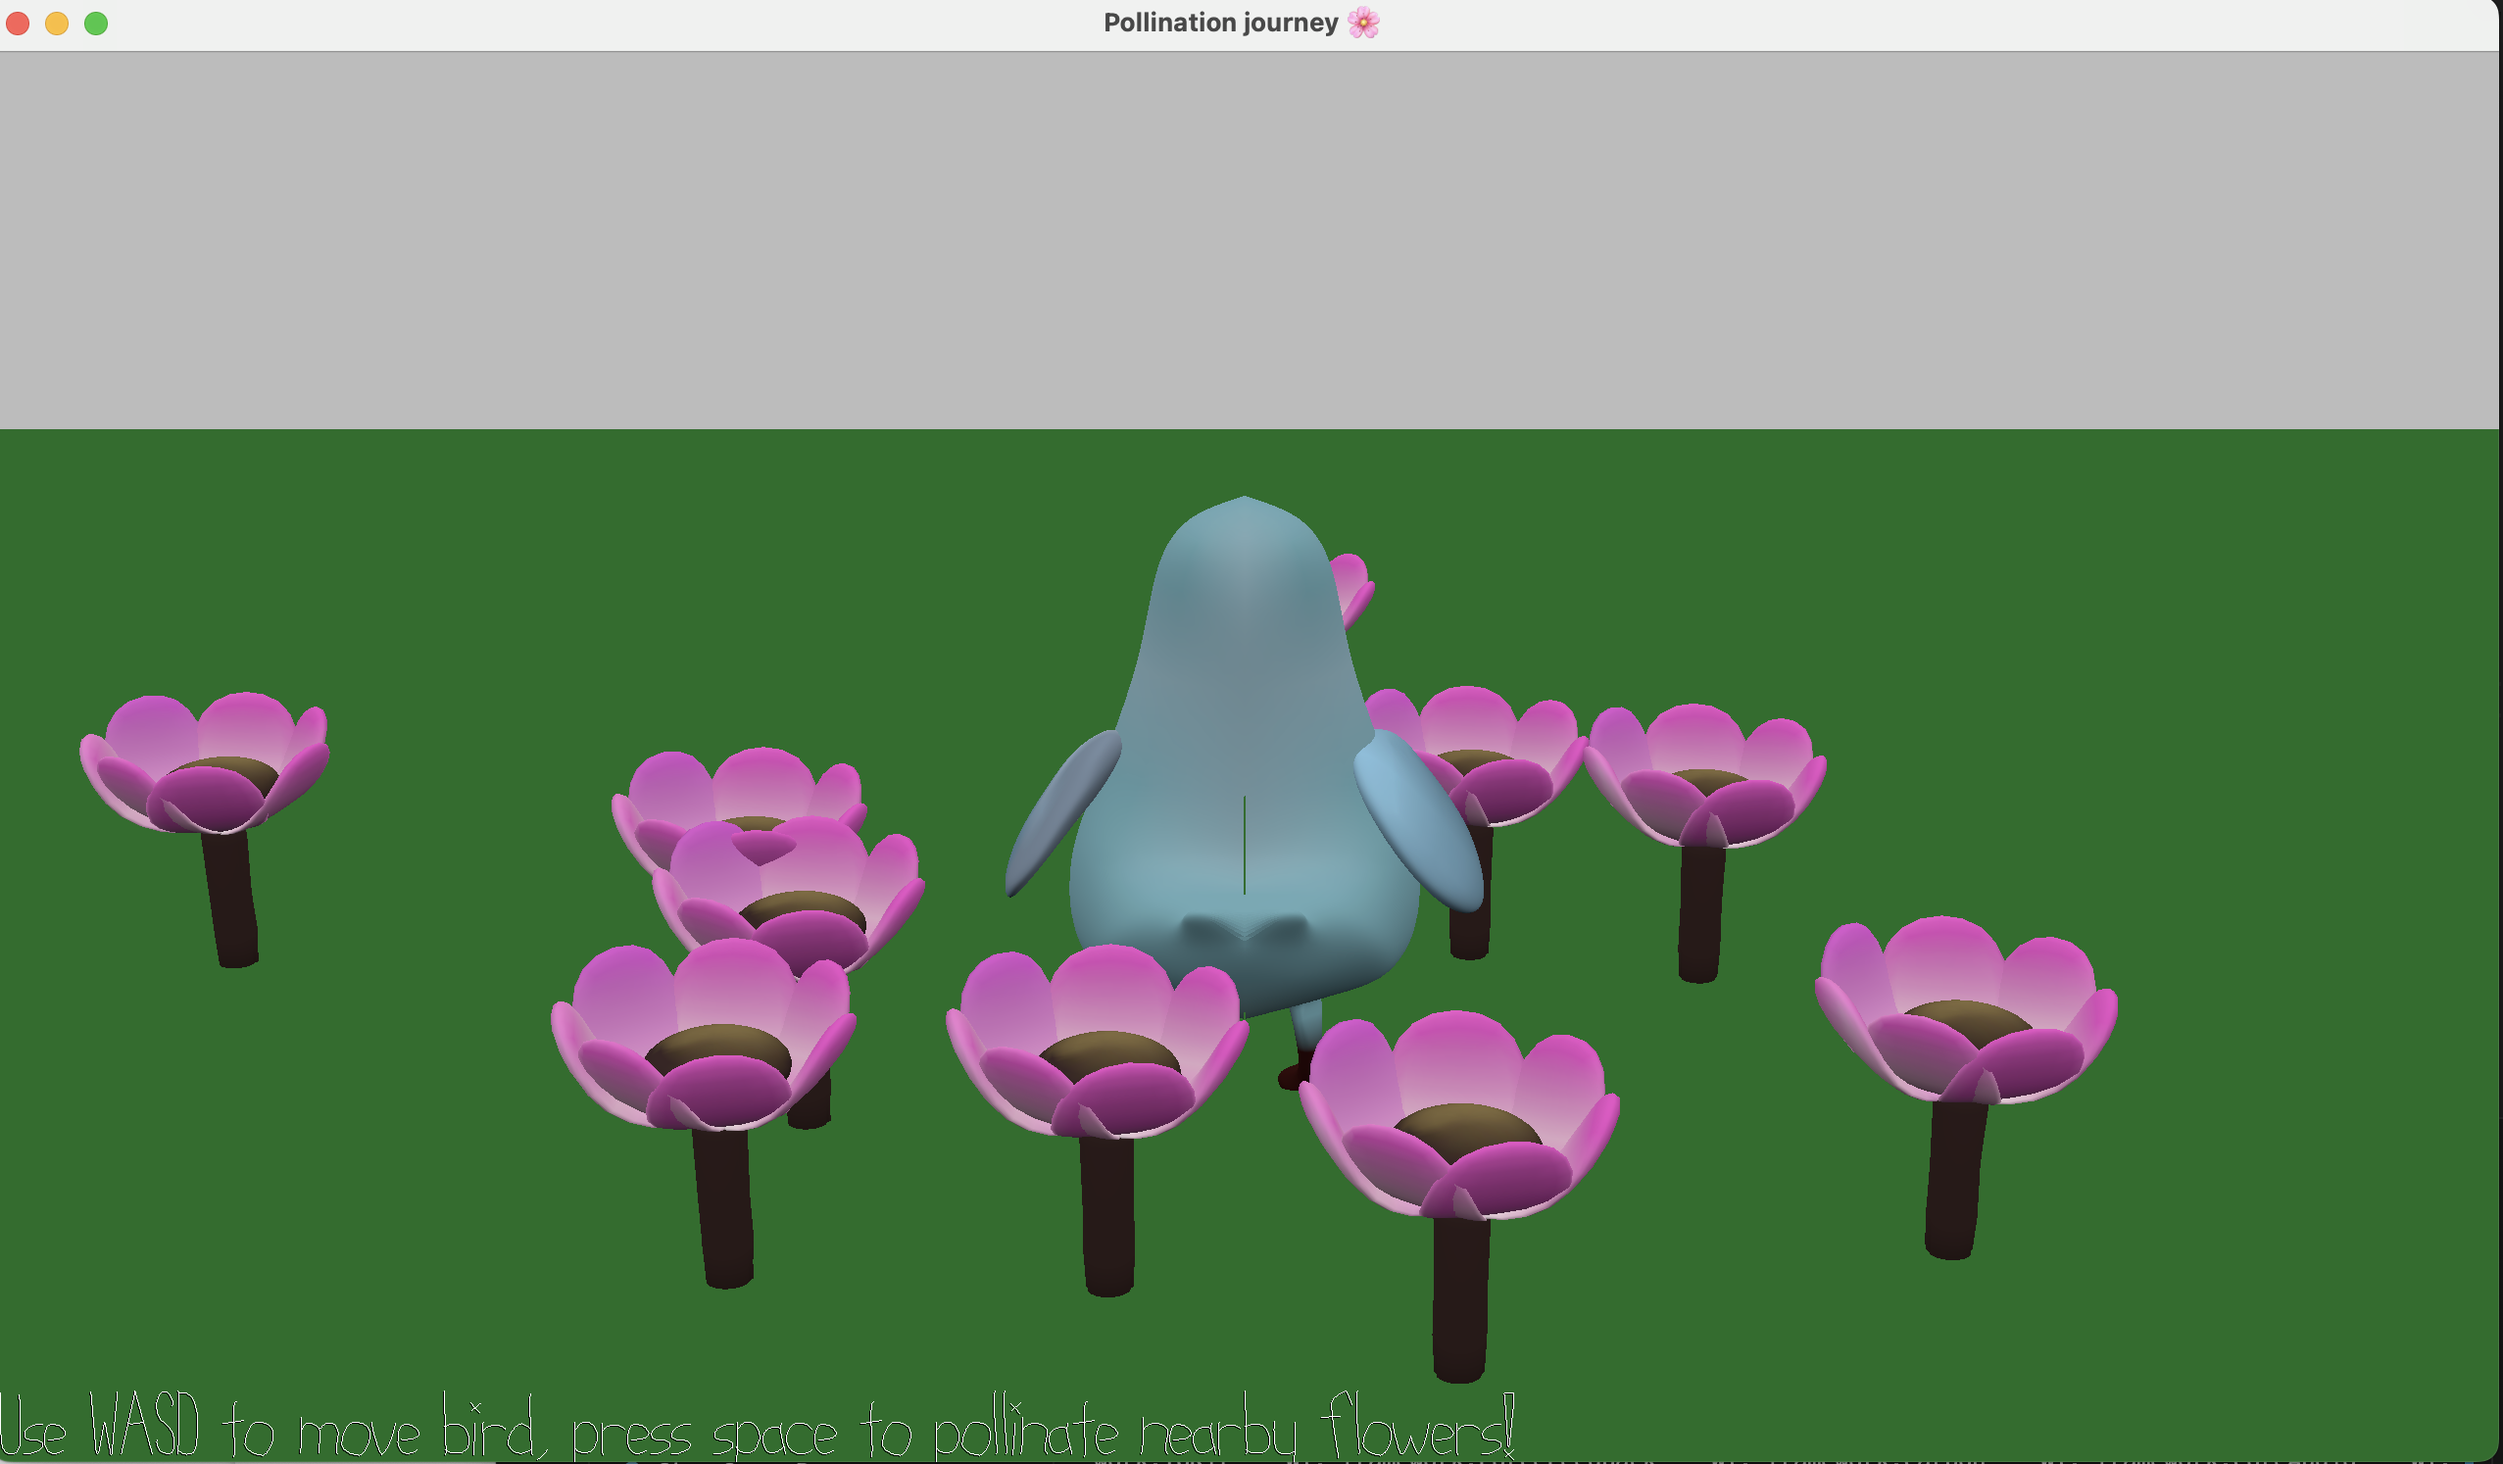
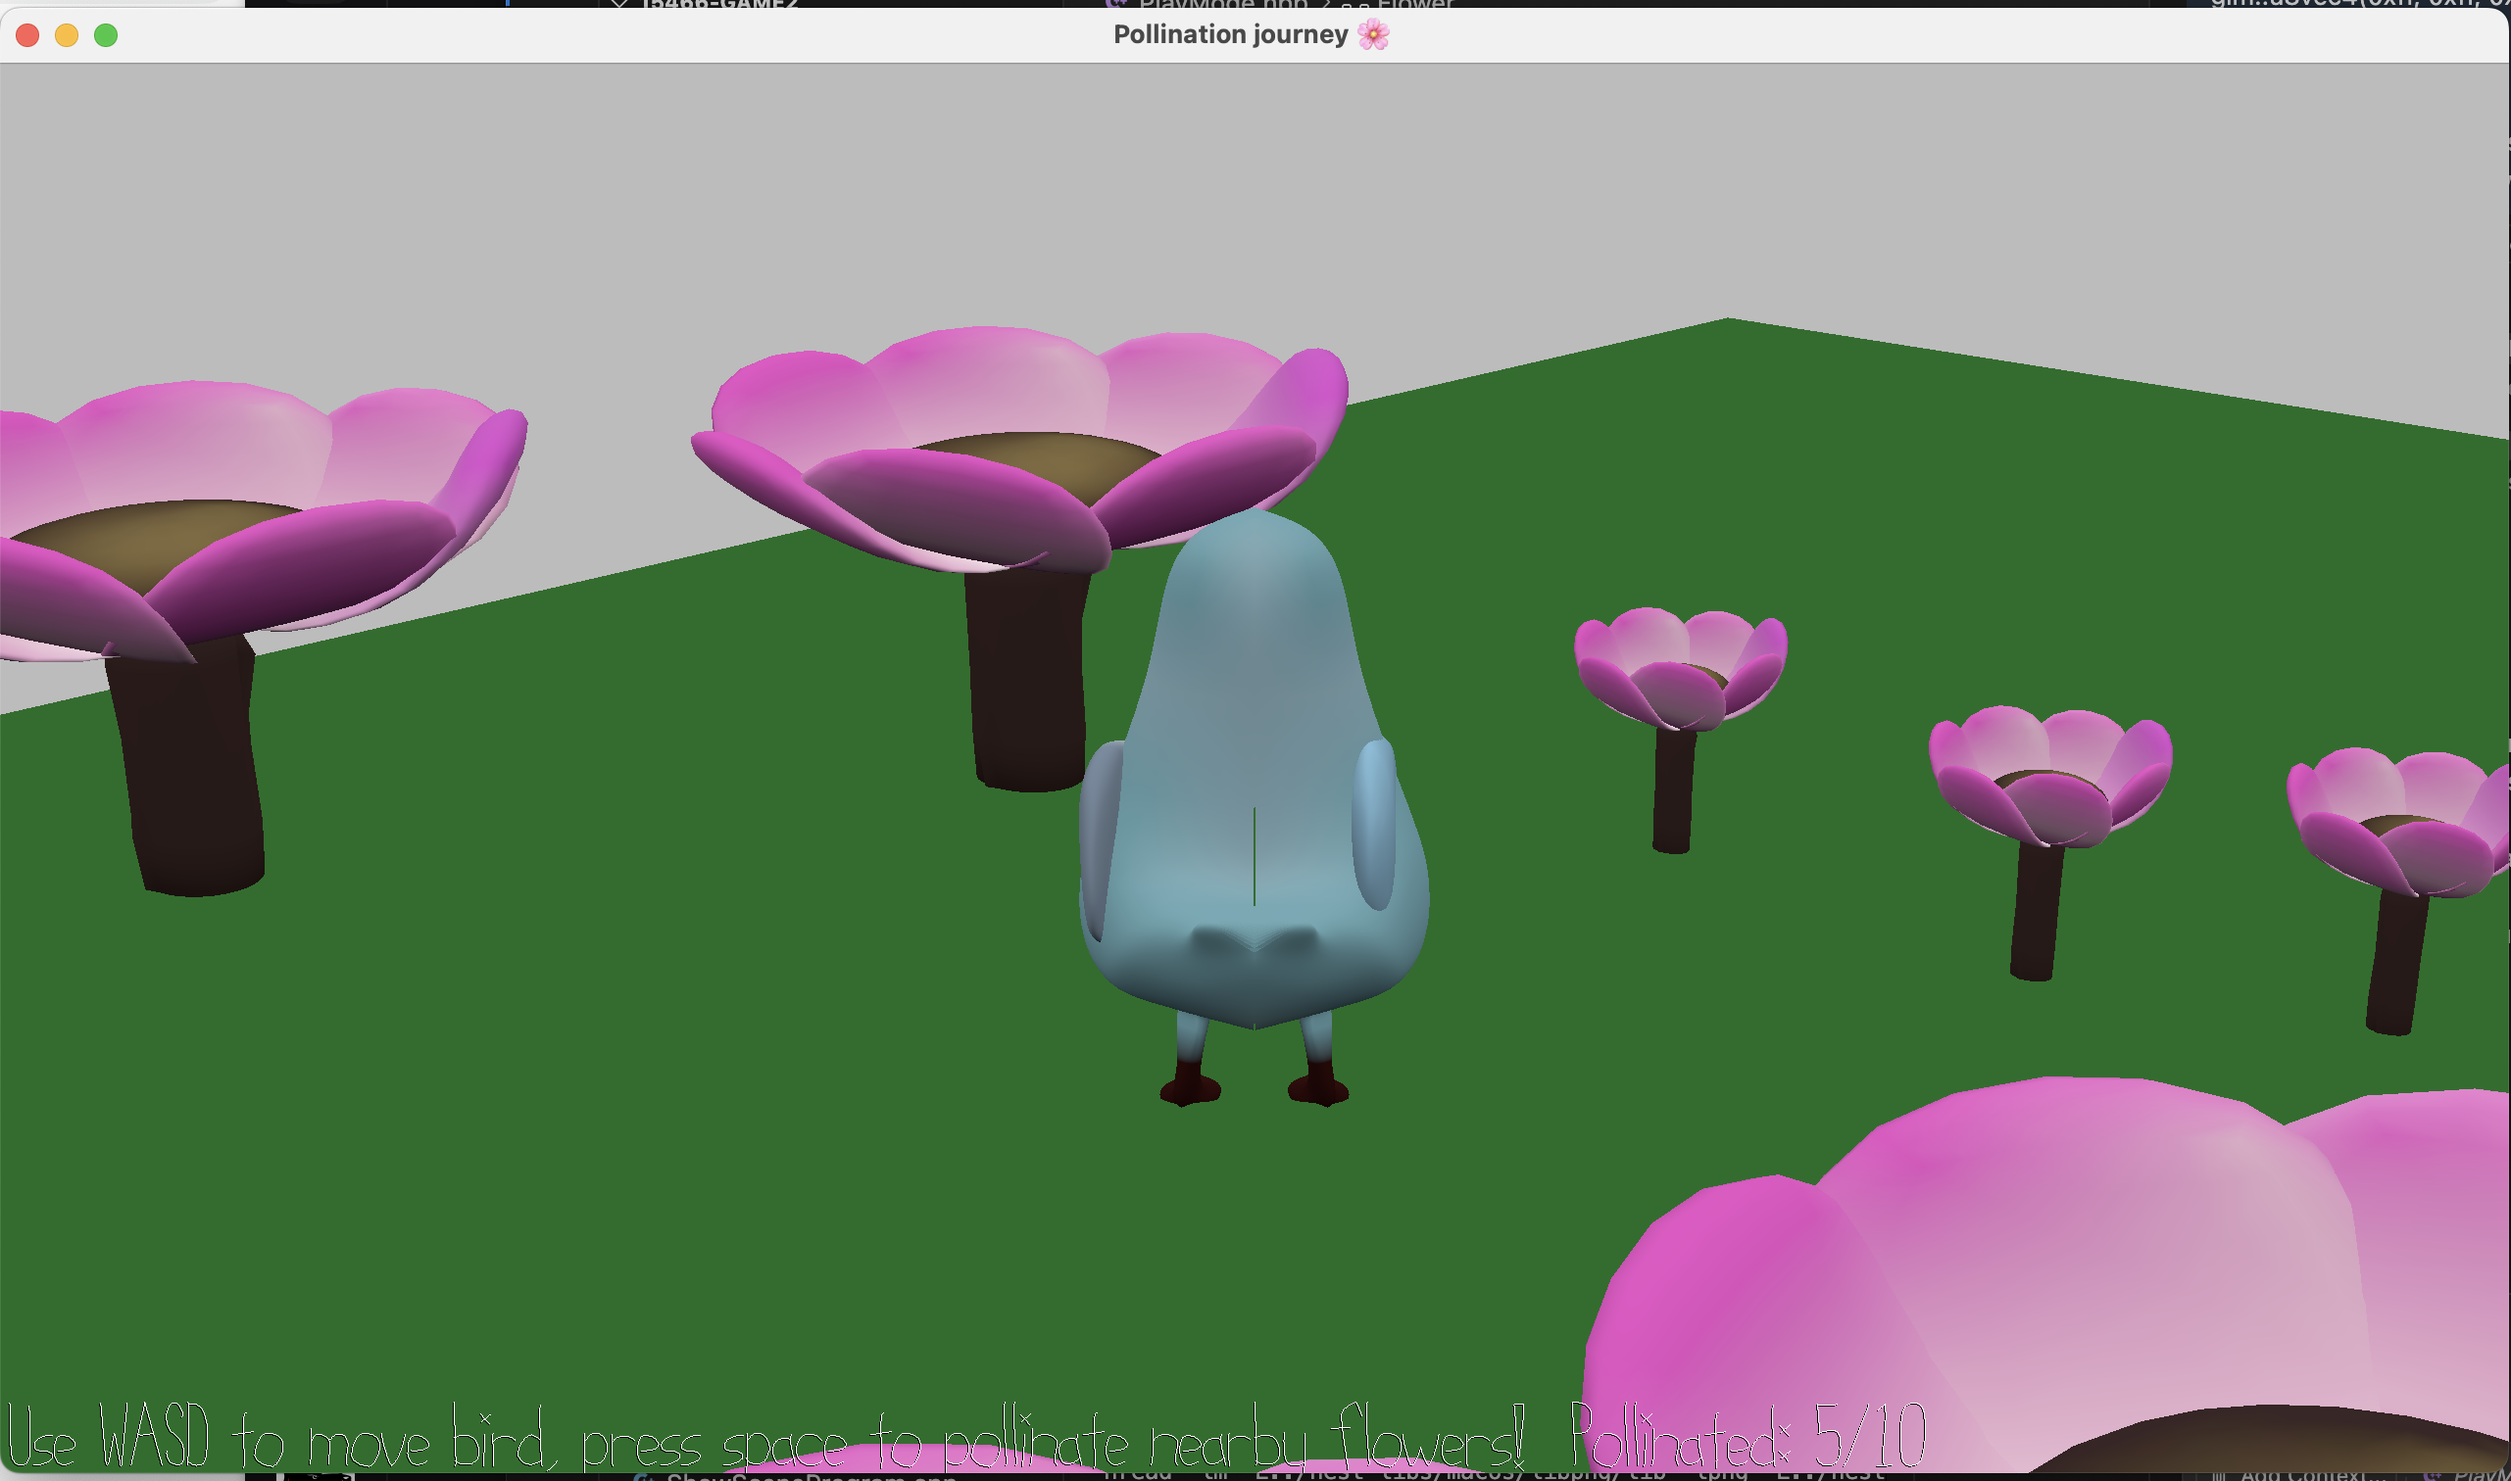
scoreboard

diff --git a/PlayMode.cpp b/PlayMode.cpp
@@ -115,6 +115,12 @@ PlayMode::PlayMode() : scene(*garden_scene)
 			wing_right = &transform;
 		else if (transform.name == "bird_root")
 			bird_root = &transform;
+		else if (transform.name.find("flower") != std::string::npos) {
+			Flower f;
+			f.root = &transform;
+			f.pollinated = false;
+			flowers.push_back(f);
+		}
 	}
 
 	if (wing_left == nullptr)
@@ -212,15 +218,13 @@ void PlayMode::update(float elapsed)
 {
 	if (space.pressed)
 	{
-		float grow_distance = 4.0f;
-		for (auto &transform : scene.transforms)
-		{
-			if (transform.name.find("flower") != std::string::npos)
-			{
-				float dist = glm::distance(transform.position, bird_root->position);
-				if (dist < grow_distance)
-				{
-					transform.scale = glm::vec3(2.f, 2.f, 1.2f); // grow flower
+		float grow_distance = 5.0f;
+		for (auto &flower : flowers) {
+			if (!flower.pollinated) {
+				float dist = glm::distance(flower.root->position, bird_root->position);
+				if (dist < grow_distance) {
+					flower.root->scale = glm::vec3(2.f, 2.f, 1.2f); // grow flower
+					flower.pollinated = true;
 				}
 			}
 		}
@@ -293,12 +297,20 @@ void PlayMode::draw(glm::uvec2 const &drawable_size)
 			0.0f, 0.0f, 0.0f, 1.0f));
 
 		constexpr float H = 0.09f;
-		lines.draw_text("Use WASD to move bird, press space to pollinate nearby flowers!",
+		int num_pollinated = 0;
+		for (const auto& flower : flowers) {
+			if (flower.pollinated) num_pollinated++;
+		}
+		std::string text = "Use WASD to move Fauna, press space to pollinate nearby flowers! Pollinated: " + std::to_string(num_pollinated) + "/ 10";
+		if (num_pollinated == 10) {
+			text = "Yay Fauna! You pollinated all the flowers :D";
+		}
+		lines.draw_text(text,
 						glm::vec3(-aspect + 0.1f * H, -1.0 + 0.1f * H, 0.0),
 						glm::vec3(H, 0.0f, 0.0f), glm::vec3(0.0f, H, 0.0f),
 						glm::u8vec4(0x00, 0x00, 0x00, 0x00));
 		float ofs = 2.0f / drawable_size.y;
-		lines.draw_text("Use WASD to move bird, press space to pollinate nearby flowers!",
+		lines.draw_text(text,
 						glm::vec3(-aspect + 0.1f * H + ofs, -1.0 + 0.1f * H + ofs, 0.0),
 						glm::vec3(H, 0.0f, 0.0f), glm::vec3(0.0f, H, 0.0f),
 						glm::u8vec4(0xff, 0xff, 0xff, 0x00));

diff --git a/PlayMode.hpp b/PlayMode.hpp
@@ -10,8 +10,9 @@
 
 
 struct Flower {
-    Scene::Transform* root = nullptr;
-    Scene::Drawable*  draw = nullptr;
+	Scene::Transform* root = nullptr;
+	Scene::Drawable*  draw = nullptr;
+	bool pollinated = false;
 };
 
 struct PlayMode : Mode
